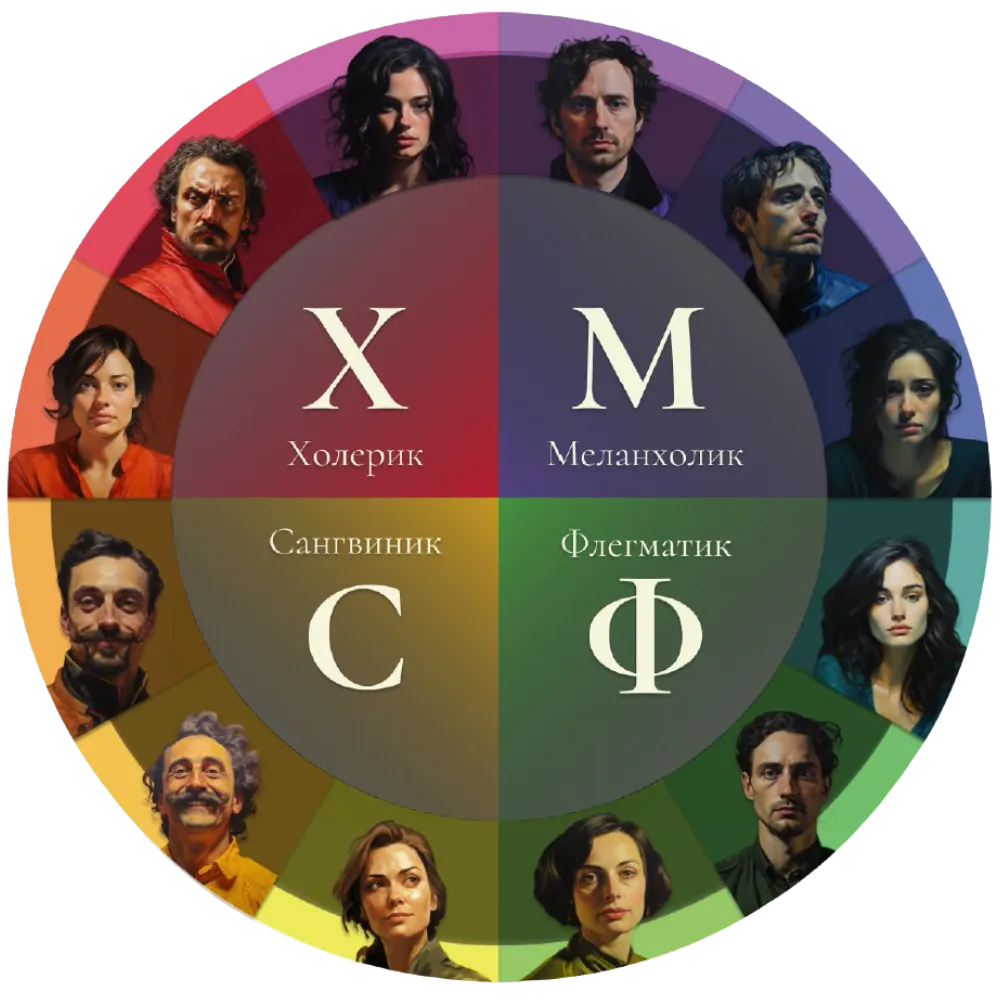
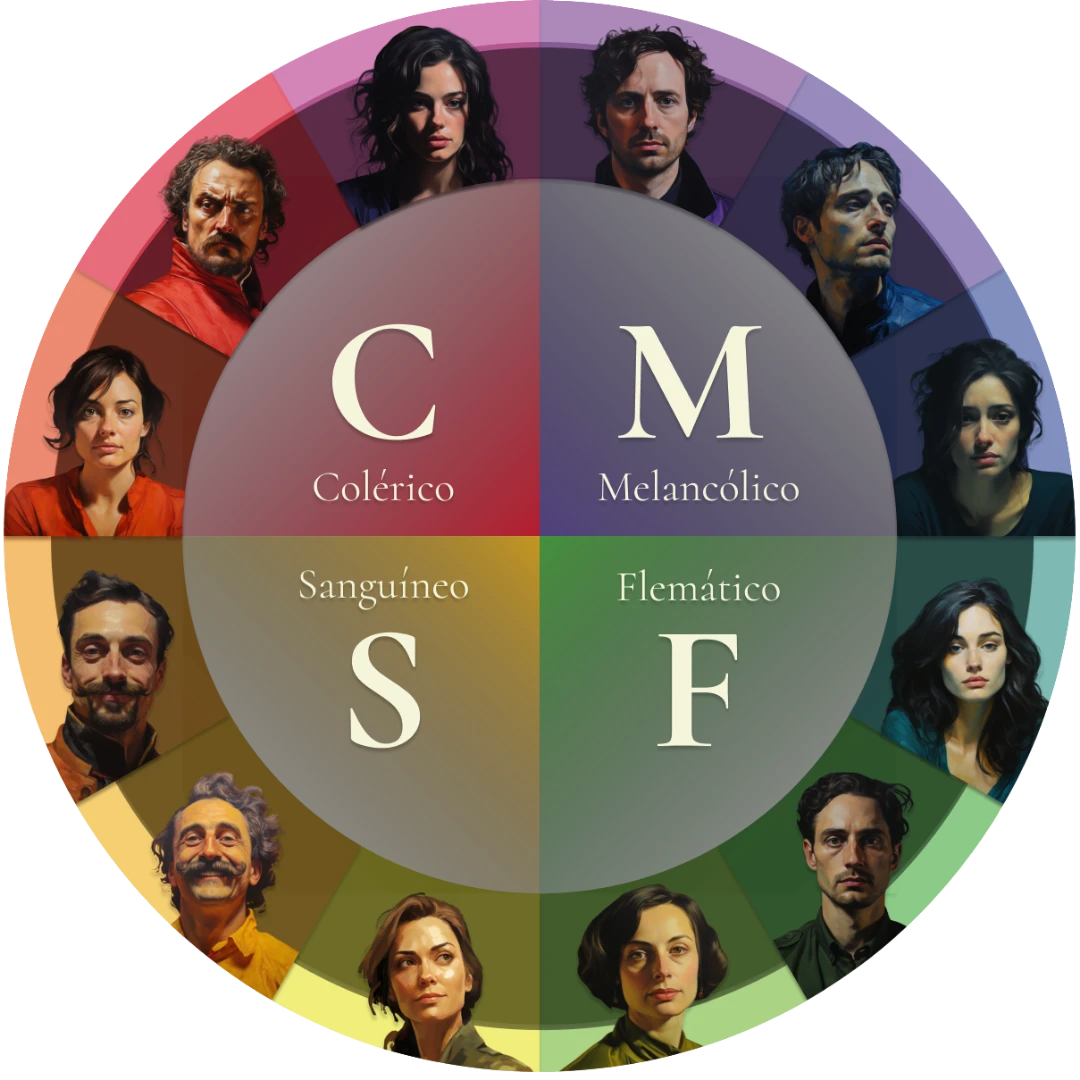
Migas de pan mejoradas + botón atrás + diagrama debajo de opciones
- Breadcrumb: añade etiqueta de actividad (Cuestionario, Definiciones, etc.)
  separada por "/" tras el título del vídeo
- Botón atrás: "← Atrás" al volver al vídeo, "← Salir al curso" al listado
- Quiz: diagrama de temperamentos movido debajo de las opciones de respuesta
- Imagen del diagrama reemplazada: español (C/M/S/F) en vez de ruso

diff --git a/src/formacion/Modulo.jsx b/src/formacion/Modulo.jsx
@@ -108,7 +108,7 @@ function PasoVideo({ paso, pasos, progreso, avanzar, retroceder, volver, cursoNu
     const esUltima = introIdx === paginas.length - 1;
     return (
       <div style={{ maxWidth: 800, margin: '0 auto' }}>
-        <button type="button" onClick={volver} style={{ background: 'none', border: 'none', padding: 0, cursor: 'pointer', color: NAVY, fontFamily: FONT_BODY, fontSize: 14, fontWeight: 600, marginBottom: 14 }}>← Curso {cursoNum}</button>
+        <button type="button" onClick={volver} style={{ background: 'none', border: 'none', padding: 0, cursor: 'pointer', color: NAVY, fontFamily: FONT_BODY, fontSize: 14, fontWeight: 600, marginBottom: 14 }}>← Salir al curso</button>
         <div style={tarjeta}>
           <div style={eyebrow}>{lec ? `Módulo ${lec.numero}` : 'Introducción'}</div>
           <h2 style={{ fontFamily: FONT_SLAB, fontSize: 30, fontWeight: 700, color: NAVY, margin: '8px 0 8px' }}>{paso.titulo}</h2>
@@ -200,7 +200,7 @@ function PasoVideo({ paso, pasos, progreso, avanzar, retroceder, volver, cursoNu
   return (
     <div className="vl-leccion" style={{ display: 'flex', flexDirection: 'column', gap: 16 }}>
       <style>{`@media (min-width: 1100px) { .vl-leccion { display: grid !important; grid-template-columns: minmax(0, 2.2fr) minmax(300px, 1fr); gap: 24px !important; align-items: start; } .vl-leccion > .vl-back { grid-column: 1 / -1; } .vl-leccion > .vl-video-col { position: sticky; top: 20px; } }`}</style>
-      <button type="button" className="vl-back" onClick={volver} style={{ justifySelf: 'start', background: 'none', border: 'none', padding: 0, cursor: 'pointer', color: NAVY, fontFamily: FONT_BODY, fontSize: 14, fontWeight: 600, marginBottom: -10 }}>← Curso {cursoNum}</button>
+      <button type="button" className="vl-back" onClick={volver} style={{ justifySelf: 'start', background: 'none', border: 'none', padding: 0, cursor: 'pointer', color: NAVY, fontFamily: FONT_BODY, fontSize: 14, fontWeight: 600, marginBottom: -10 }}>← Salir al curso</button>
       <div className="vl-video-col">
         <Reproductor leccion={{ id: paso.id, vimeoId: paso.vimeoId, titulo: paso.titulo }} onProgreso={onProgreso} />
       </div>
@@ -279,6 +279,20 @@ function tituloActividad(act) {
   if (act.tipo === 'define') return act.titulo.replace(/^Define\b/, 'Definiciones');
   if (act.tipo === 'quiz') return act.titulo.replace(/^Quiz\b/, 'Cuestionario');
   return act.titulo;
+}
+
+function etiquetaPaso(paso) {
+  if (paso.tipo === 'quiz') return 'Cuestionario';
+  if (paso.tipo === 'define') return 'Definiciones';
+  if (paso.tipo === 'test_profundo') return 'Test';
+  if (paso.tipo === 'temperamento_perfil') return 'Tu perfil';
+  if (paso.tipo === 'retos_temperamento') return 'Retos';
+  if (paso.tipo === 'reflexion_guiada') return 'Reflexión';
+  if (paso.tipo === 'cierre') return 'Síntesis';
+  if (paso.tipo === 'conclusion_modulo') return 'Resumen';
+  if (paso.tipo === 'test_caracter') return 'Test de carácter';
+  if (paso.tipo === 'test_corazon') return 'Test del corazón';
+  return paso.titulo;
 }
 
 function EmojiShortcut({ emoji, hecho, onClick, title }) {
@@ -615,13 +629,15 @@ function ModuloContenido({ moduloData, user, cursoId }) {
           background: 'none', border: 'none', padding: 0, cursor: 'pointer',
           color: NAVY, fontFamily: FONT_BODY, fontSize: 14, fontWeight: 600, marginBottom: 14,
         }}>
-          ← {videoCtx ? `Módulo ${videoCtxMod?.numero ?? 0}` : `Curso ${cursoNum}`}
+          ← {videoCtx ? 'Atrás' : 'Salir al curso'}
         </button>
         {videoCtx && (
-          <div style={{ display: 'flex', alignItems: 'center', gap: 10, padding: '10px 14px', background: BEIGE, borderLeft: `3px solid ${GOLD_REF}`, marginBottom: 16, fontFamily: FONT_BODY, fontSize: 14, color: NAVY }}>
+          <div style={{ display: 'flex', alignItems: 'center', gap: 8, padding: '10px 14px', background: BEIGE, borderLeft: `3px solid ${GOLD_REF}`, marginBottom: 16, fontFamily: FONT_BODY, fontSize: 14, color: NAVY, flexWrap: 'wrap' }}>
             <span style={{ fontWeight: 600, color: MUTED, fontSize: 12, textTransform: 'uppercase', letterSpacing: '0.05em', whiteSpace: 'nowrap' }}>Módulo {videoCtxMod?.numero ?? 0}</span>
             <span style={{ color: LINE }}>|</span>
             <span>{videoCtx.titulo}</span>
+            <span style={{ color: MUTED, fontSize: 13 }}>/</span>
+            <span style={{ fontWeight: 600, color: GOLD_REF_DK, fontSize: 13 }}>{etiquetaPaso(pasoActual)}</span>
           </div>
         )}
         <PasoActividad paso={pasoActual} pasos={pasos} temperamento={temperamento} progreso={progreso} avanzar={avanzar} volver={rewind} user={user} />

diff --git a/src/formacion/Actividad.jsx b/src/formacion/Actividad.jsx
@@ -268,11 +268,6 @@ export function Quiz({ paso, onComplete, modulo }) {
   return (
     <Shell titulo="Cuestionario" actual={idx + 1} total={preguntas.length}>
       <div style={tarjeta}>
-        {paso.diagrama_temperamentos && (
-          <div style={{ marginBottom: 20, textAlign: 'center' }}>
-            <img src={diagramaTemperamentosImg} alt="Diagrama de los 4 temperamentos" style={{ width: '100%', maxWidth: 360, height: 'auto' }} />
-          </div>
-        )}
         <p style={{ fontFamily: FONT_BODY, fontSize: 15, color: MUTED, margin: '0 0 16px', lineHeight: 1.5 }}>
           Responde las siguientes preguntas del cuestionario.
         </p>
@@ -285,6 +280,11 @@ export function Quiz({ paso, onComplete, modulo }) {
               correcta={origIdx === preg.correcta} revelada={revelada} onClick={() => elegir(origIdx)} />
           ))}
         </div>
+        {paso.diagrama_temperamentos && (
+          <div style={{ marginTop: 20, textAlign: 'center' }}>
+            <img src={diagramaTemperamentosImg} alt="Diagrama de los 4 temperamentos" style={{ width: '100%', maxWidth: 360, height: 'auto' }} />
+          </div>
+        )}
         {revelada && (
           <div style={{ marginTop: 22, display: 'flex', justifyContent: 'space-between', alignItems: 'center' }}>
             {idx > 0 ? (
